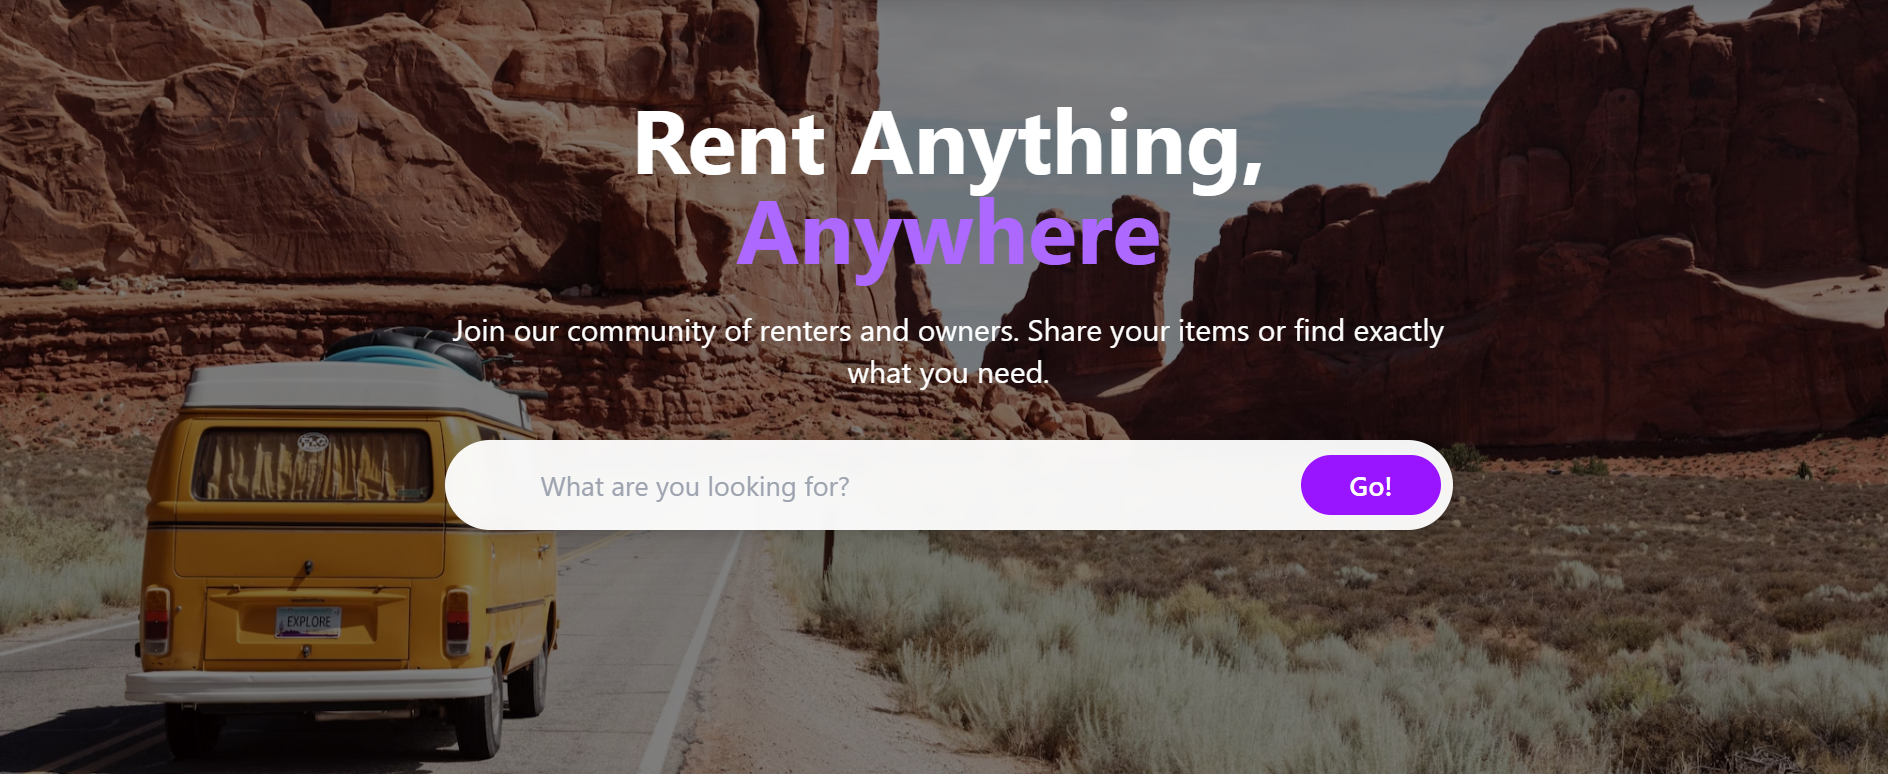
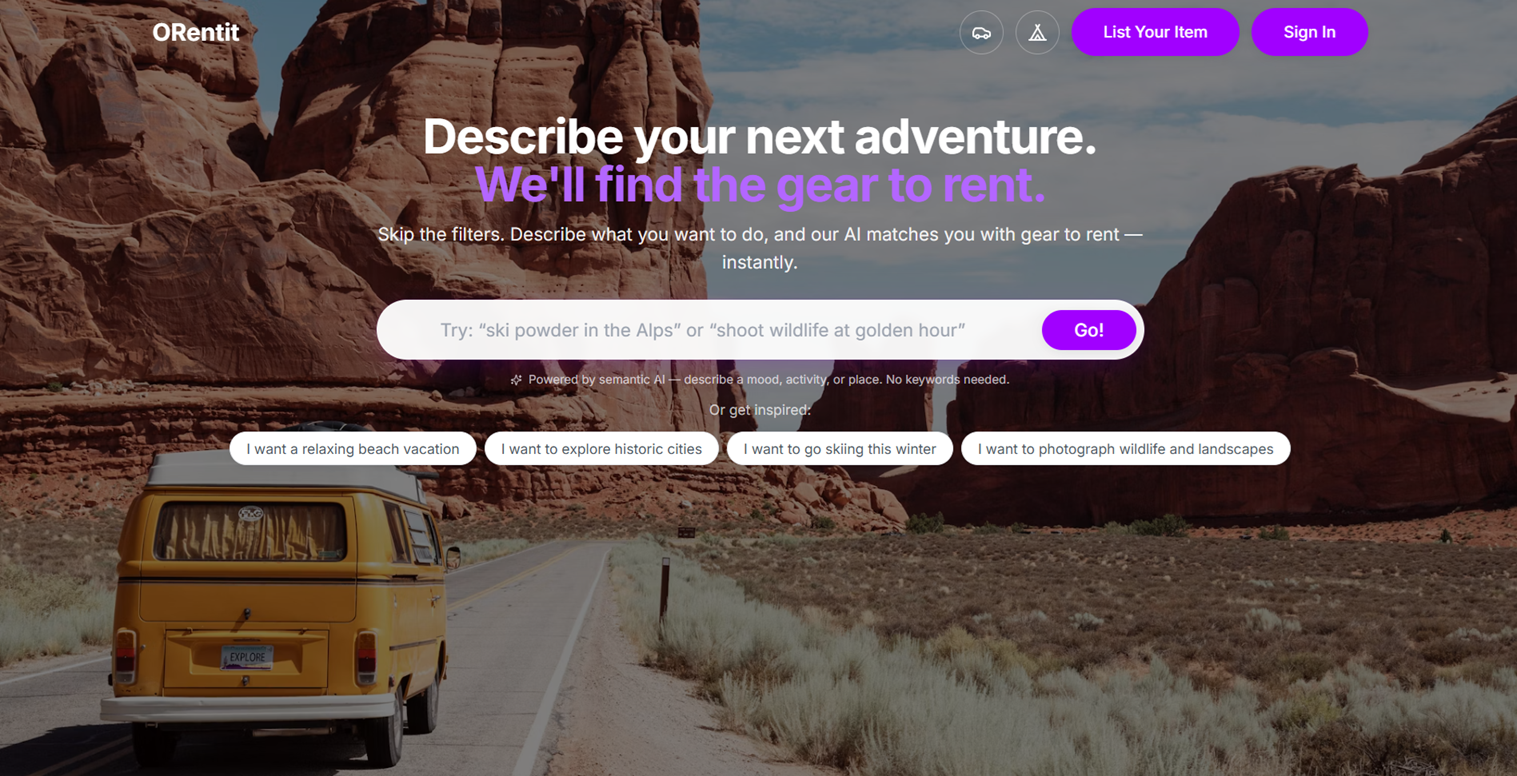
Added DocToSOP - Improved Other Projects's Visibility

diff --git a/src/App.tsx b/src/App.tsx
@@ -13,28 +13,29 @@ import OrentitImage from "./assets/orentit.png";
 import VirtualTryOn from "./assets/virtualtryon.webp";
 import Drone from "./assets/Drone.webp";
 import OrcheStudio from "./assets/OrcheStudio.png";
-import ClairOps from "./assets/ClairOps.png";
+import DocToSOP from "./assets/DOCToSOP.png";
+import MobileManipulatorDemo from "./assets/mobile_manipulator_demo.gif";
 
 // import comingSoonUrl from "./assets/comingSoon.png";
 
 // import { useRef } from "react";
 const project1: Types.Project = {
-  title: "ClairOps",
+  title: "DocToSOP",
   techStack: ["Python","RAG","LangChain"],
   description:
-    "As Founding Engineer, developed a next-gen facility management platform with autonomous AI agents and RAG intelligence, empowering field teams, business leads, and operations managers. ",
-  image: ClairOps,
-  github: "https://github.com/Fouad-Smaoui/ClairOps",
-  demo: "https://clairopsapp.vercel.app/",
+    "As Founding Engineer, Orchestrated a RAG-based AI solution to transform unstructured documentation into industrialized operational procedures, improving accessibility and accelerating adoption by business teams. ",
+  image: DocToSOP,
+  github: "https://github.com/Fouad-Smaoui/DocToSOP",
+  demo: "https://doc-to-sop.vercel.app/",
 };
 const project2: Types.Project = {
   title: "OrcheStudio",
   techStack: ["Python", "ONNX","LLMs"],
   description:
-    "Automated end-to-end business operations by deploying AI agents, streamlining multimedia production pipelines, enhancing efficiency and reducing manual workload. ",
+    "Automated end-to-end video creation pipeline by deploying AI agents, transforming simple ideas into fully generated videos, significantly reducing production time and costs. ",
   image: OrcheStudio,
-  github: "https://github.com/Fouad-Smaoui/OrchestStudio",
-  demo: "https://www.youtube.com/@InnovationUnburied",
+  github: "https://github.com/Fouad-Smaoui/OrcheStudio",
+  demo: "https://orche-studio.vercel.app/",
 };
 const project3: Types.Project = {
   title: "Drone Precision Landing System",
@@ -56,7 +57,7 @@ const project4: Types.Project = {
     "In my vision of the future, robots aren’t just tools, they’re intelligent collaborators that transform industries through the power of physical AI, and it’s the future I’m shaping.This revolutionary mobile manipulator grows smarter through reinforcement learning, improving its efficiency in object manipulation, navigation, and assembly. It merges ROS2, physical AI, and swarm robotics, it’s part of a network of robots that work together, share data, and adapt to their environment.",
   image: MobileManipulator,
   github: "https://github.com/Fouad-Smaoui/Mobile-Manipulator-Robot",
-  demo: "https://github.com/Fouad-Smaoui/Mobile-Manipulator-Robot",
+  demo: MobileManipulatorDemo,
 };
 const project5: Types.Project = {
   title: "ORentit",
@@ -87,13 +88,13 @@ const project7: Types.Project = {
 };
 
 const project8: Types.Project = {
-  title: "TinySight",
+  title: "EdgeVisionAI",
   techStack: ["Python", "OpenCV", "C++"],
   description:
     "Created a next-generation, customizable solution combining facial detection, virtual try-on, and facial landmark tracking to deliver innovative robotic vision across diverse applications.",
   image: VirtualTryOn,
   github: "https://github.com/Fouad-Smaoui/TinyML-Driven-Embedded-AI-Vision",
-  demo: "https://github.com/Fouad-Smaoui/TinyML-Driven-Embedded-AI-Vision",
+  demo: "https://frontend-xi-seven-16.vercel.app/",
 };
 
 